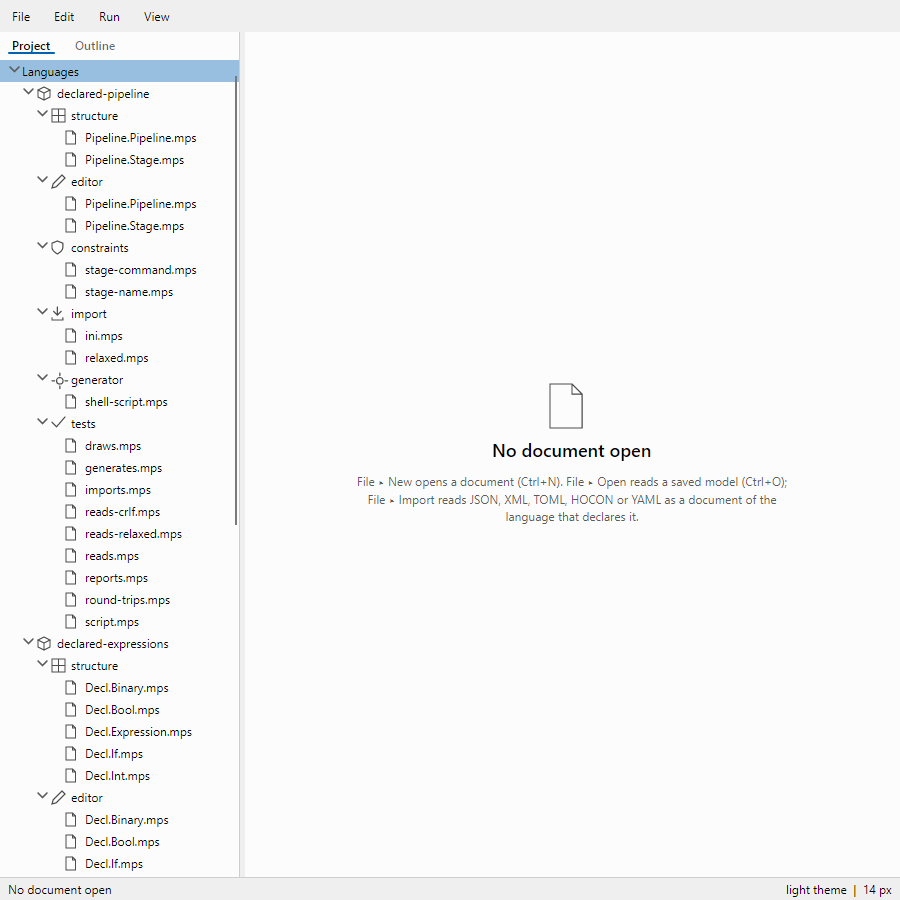
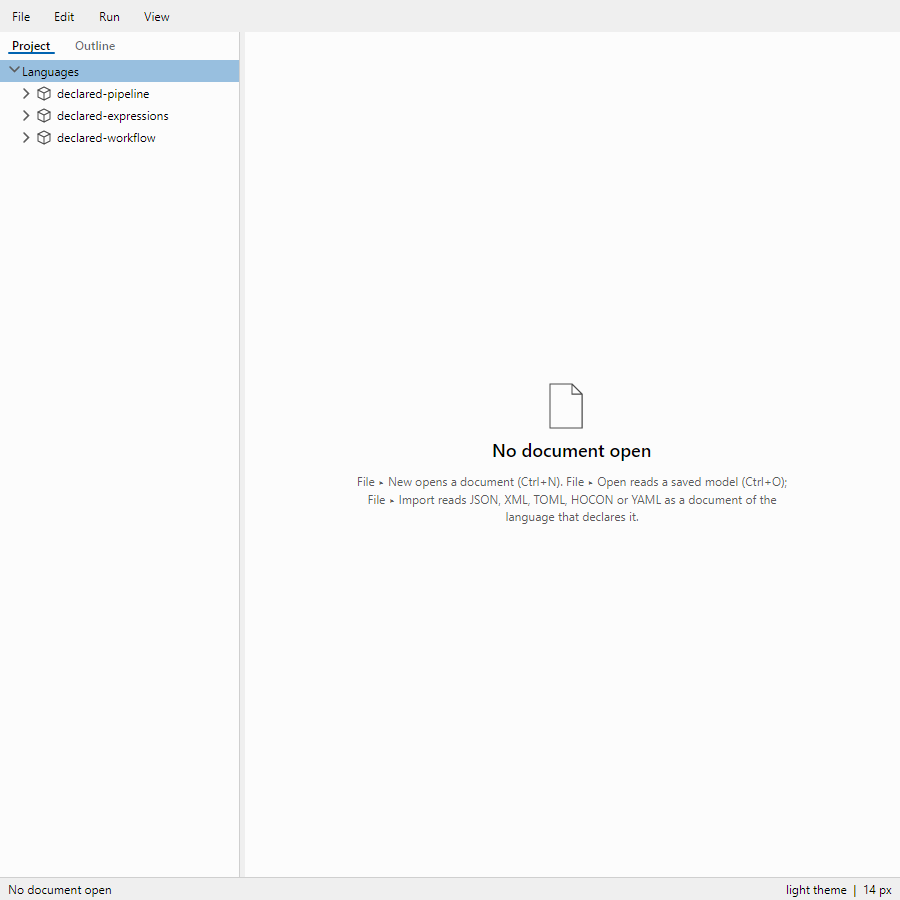
chore: take the docking library the shell is built on
The window's areas are about to become dockables, and the chrome a floated
panel needs - tab strips, splitters, grips, close buttons - is the one thing a
hand-built grid cannot supply. Dock.Avalonia is the library for Avalonia that
offers it, so the window stops owning that behaviour.

Its 12.1.5 build is compiled against Avalonia 12.1.5 and this repository is on
12.1.6; that is a patch difference, which NuGet resolves upwards, so no
Avalonia downgrade is needed. The Fluent theme is declared on the application
rather than on the window because a floated panel is a window of its own, and
it is asked for the compact density so a panel row stays as tight as the panel
area it replaces.

Changed region(s): [[0.0311, 0.1244, 0.2178, 0.9644]]

diff --git a/src/Projectional.Workbench/Project/ProjectExplorer.cs b/src/Projectional.Workbench/Project/ProjectExplorer.cs
@@ -58,6 +58,23 @@ internal static class ProjectExplorer
     /// <param name="folder">The aspect folder.</param>
     internal static string FolderKey(string directory, string folder) => "folder:" + Path.Combine(directory, folder);
 
+    /// <summary>Every key a project contributes: its own row and one per folder it actually has.</summary>
+    /// <param name="language">The project.</param>
+    /// <remarks>
+    /// A caller that wants the whole tree shut asks this rather than guessing folder names: which folders exist is a
+    /// fact about the folder on disk, and the same walk that builds the rows answers it.
+    /// </remarks>
+    internal static IReadOnlyList<string> KeysOf(LanguageProject language)
+    {
+        ArgumentNullException.ThrowIfNull(language);
+
+        return
+        [
+            ProjectKey(language),
+            .. FoldersOf(language.Directory).Select(folder => FolderKey(language.Directory, folder.Folder)),
+        ];
+    }
+
     /// <summary>The rows, in the order the explorer draws them.</summary>
     /// <param name="documents">The open documents, in tab order.</param>
     /// <param name="languages">The language projects this window has opened, in the order they joined.</param>

diff --git a/src/Projectional.Workbench/MainWindow.axaml.cs b/src/Projectional.Workbench/MainWindow.axaml.cs
@@ -1003,6 +1003,27 @@ public sealed partial class MainWindow : Window, IDisposable
         ProjectList.SelectedItem = rows.FirstOrDefault(row => ReferenceEquals(row.Document, _documents.Active));
     }
 
+    /// <summary>Closes everything the project explorer can close, so only projects and folders are listed.</summary>
+    /// <remarks>
+    /// Internal for the screenshot harness: a picture of the explorer is about the folder icons, and a list of every
+    /// definition document pushes the folders a picture is meant to show out of the window.
+    /// </remarks>
+    internal void CollapseAllProjects()
+    {
+        _collapsed.Clear();
+        _collapsed.Add(ProjectExplorer.DocumentsKey);
+
+        foreach (var language in _language.Opened)
+        {
+            foreach (var key in ProjectExplorer.KeysOf(language))
+            {
+                _collapsed.Add(key);
+            }
+        }
+
+        ShowProject();
+    }
+
     /// <summary>Opens or closes a node of the project explorer.</summary>
     /// <remarks>
     /// The rows are rebuilt rather than mutated: a row is a value, and a collapsed node's children are not part of the

diff --git a/tools/Projectional.Screenshots/ShellShots.cs b/tools/Projectional.Screenshots/ShellShots.cs
@@ -63,6 +63,10 @@ internal static class ShellShots
             Click(close);
         }
 
+        // Every node shut: the picture is about the folder icons, which only stay on screen while the files below
+        // them are not listed.
+        window.CollapseAllProjects();
+
         await Task.Delay(250);
     }
 
